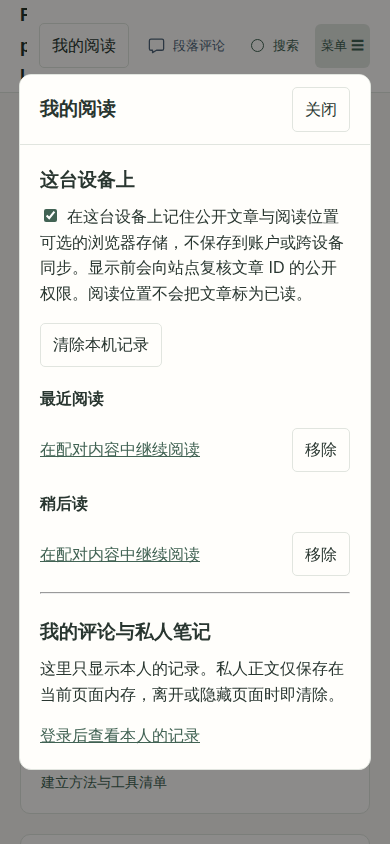
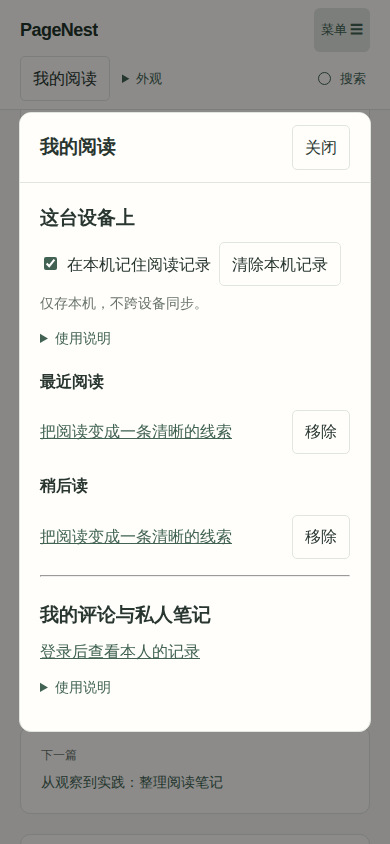
Refresh the concise reading panel showcase

diff --git a/docs/SHOWCASE.md b/docs/SHOWCASE.md
@@ -12,7 +12,7 @@
 
 ## 在这台设备上，继续刚才的阅读
 
-“我的阅读” 把本机公开阅读位置、稍后读入口与本人的评论／私人笔记放在一起。需要读者单独同意才保存本机公开阅读记录；不保存到账户或跨设备同步。私人正文只在通过权限校验后的当前页面内存中使用。
+“我的阅读” 把本机公开阅读位置、稍后读入口与本人的评论／私人笔记放在一起。面板优先展示记录和操作，详细说明可按需展开。需要读者单独同意才保存本机公开阅读记录；不保存到账户或跨设备同步。私人正文只在通过权限校验后的当前页面内存中使用。
 
 <p align="center"><img src="assets/reading-mobile.png" alt="390 像素手机尺寸中的我的阅读面板，包含明确的本机存储同意选项" width="390"></p>
 
